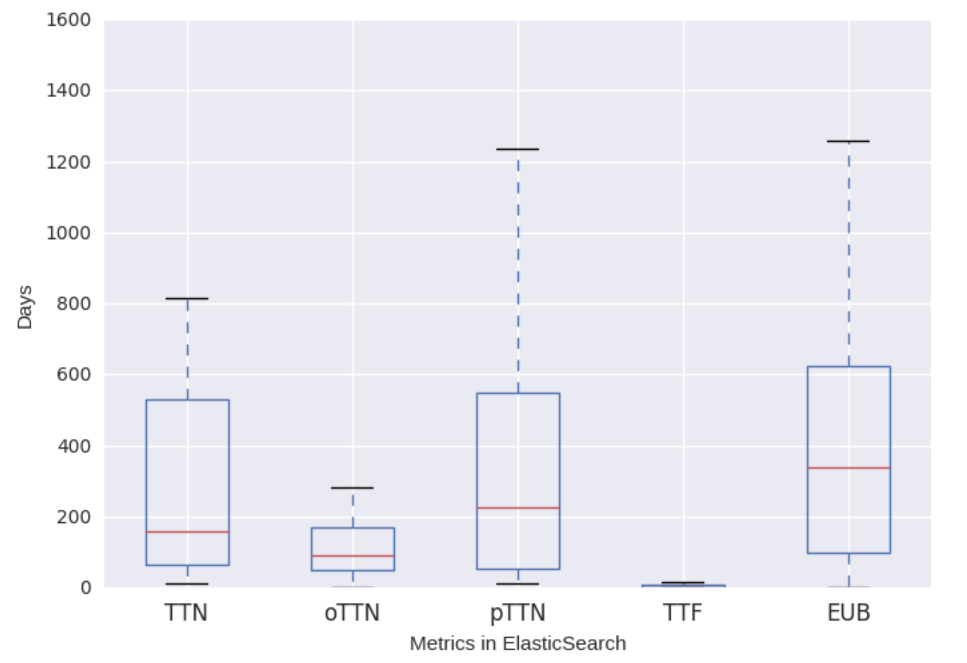
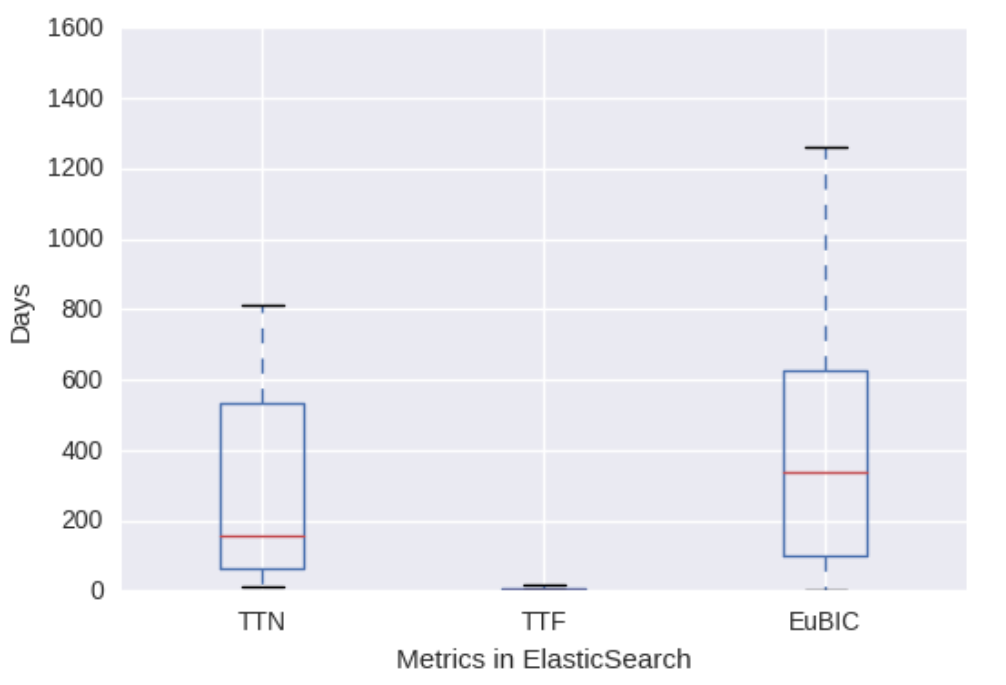
Re-writing the last sections according to the new proposal

diff --git a/bare_conf.tex b/bare_conf.tex
@@ -547,25 +547,6 @@ Figure~\ref{fig:metrics} provides a visual explanation of the various metrics pr
 \end{figure}
 
 Until now, all the values have been calculated using the exact location of the BIC, but the SZZ algorithm does not locate the precise commit in which the bug was introduced, and its outcome could be a a set of commits among which the \emph{real} BIC may or not be. To compare our results with the ones obtained after using the SZZ algorithm, we select the earliest commit which introduced the bug to the bug-fixing commit as in prior works~\cite{eyolfson2011time}. In addition, we must discard those fixing commits with only new lines since SZZ algorithm removes them from the analysis.
-%Besides these metrics, we calculate two more metrics related with TTN, which will be used to compare our results with the ones obtained after using the SZZ algorithm. Until now, all the values have been calculated using the exact location of the BIC, but the SZZ algorithm does not locate the precise commit in which the bug was introduced, and its outcome could be a a set of commits among which the \emph{real} BIC may or not be. 
-
-%To compare how the TTN obtained through SZZ algorithm differs with ours, we describe these two times:
-%\begin{itemize}
-%	\item \emph{Optimistic Time To Notify Optimistic} (oTTN): It assumes that the BIC is the closest commit in time to the bug report date, thus it measures the time since such commit until wrong behavior was reported.
-%	\item \emph{Pessimistic Time To Notify Pessimistic} (pTTN): It assumes that the BIC is furthest commit in time, thus it measures the worst time possible until the bug was notified.
-%\end{itemize}
-
-%\grex{oTTN and pTTN is still not clear... we would probably need an example like the one in Figure~\ref{fig:metrics}}
-%\gema{is it better now?}
-
-%The Figure~\ref{fig:SZZmetrics} shows how oTTN and pTTN are calculated, from the set of previous commits we build the \emph{Range of BIC} (RBIC) where the \emph{real} BIC may be. This range includes the time from the oldest to the newest merged commit in the master branch among the set of commits resulting from SZZ.
-  
-%\begin{figure}[ht]
-%\centering
-%\includegraphics[width=\columnwidth]{SZZmetrics.png}
-%\caption{ Span period of the metrics: Range of BIC (RBIC),  Pessimistic Time To Notify (pTTN), Optimistic Time To Notify (oTTN),Time To Fix (TTF) }
-%\label{fig:SZZmetrics}       % Give a unique label
-%\end{figure}
 
 \section{Evaluation}
 \label{sec:evaluation}
@@ -583,25 +564,44 @@ In this study we used a data set created in a prior research work where we analy
 \section{Results}
 \label{sec:results}
 
-We have analyzed exactly the values of the TTN, the EuBIC, and the TTF in the 76 bug fixing commits, 39 belong to Nova and 37 belong to ElasticSearch. In addition, we compare the real TTN value with the optimistic (oTTN) and pessimistic (pTTN) values resulting of SZZ.
+We have analyzed exactly the values of the TTN, the EuBIC, and the TTF in the 76 bug fixing commits, 39 belong to Nova and 37 belong to ElasticSearch. In addition, we compare these values with the values resulting of SZZ.
 
-Table~\ref{table} \gema{all the references to tables say Table V instead of their correct number, I don't know what is wrong} shows the mean of the Time To Fix (TTF) and the Time To Notify (TTN) variables computed in each project using the exactly BIC. The table also shows, the value of the TTN calculated through the use of SZZ using the nearest (oTTN) and furthest (pTTN) suspicious commit to insert the bug.  
+Table~\ref{tableNova} and Table~\ref{tableES} \gema{all the references to tables say Table V instead of their correct number, I don't know what is wrong} show the mean of the Time To Notify (TTN), the Time To Fix (TTF) and the Bug Fixing Time (BFT) variables computed in Nova and ElasticSearch project, respectively,  using our methodology \emph{Manually} and the SZZ algorithm. 
 
 \begin{table}[!t]
 % increase table row spacing, adjust to taste
 \renewcommand{\arraystretch}{1.3}
-\label{table}
+\label{tableNova}
 \centering
-\caption{Mean in days of the TTN, oTTN, pTTN and TTF in each project}
+\caption{Mean in days of the TTN, TTF, BFT in Nova project}
 % Some packages, such as MDW tools, offer better commands for making tables
 %% than the plain LaTeX2e tabular which is used here.
-\begin{tabular}{|c||c||c||c||c| }
+\begin{tabular}{|c||c||c||c| }
 \hline
-  & TTN & oTTN & pTTN & TTF \\
+  & TTN & TTF & BFT \\
 \hline
-Nova & 431 & 257 & 410 & 64 \\
+Manually & 432 & 65 & 497 \\
 \hline
-ElasticSearch & 312 & 171 & 375 & 14\\
+SZZ & 260 & 52 & 312\\
+\hline
+\end{tabular}
+\end{table}
+
+\begin{table}[!t]
+% increase table row spacing, adjust to taste
+\renewcommand{\arraystretch}{1.3}
+\label{tableES}
+\centering
+\caption{Mean in days of the TTN, TTF, BFT in ElasticSearch project}
+% Some packages, such as MDW tools, offer better commands for making tables
+%% than the plain LaTeX2e tabular which is used here.
+\begin{tabular}{|c||c||c||c| }
+\hline
+  & TTN & TTF & BFT \\
+\hline
+Manually & 312 & 14 & 326 \\
+\hline
+SZZ & 135 & 16 & 151\\
 \hline
 \end{tabular}
 \end{table}
@@ -626,7 +626,7 @@ Figure~\ref{fig:meansOfNova} and Figure~\ref{fig:meansOfES} shows the TTN as wel
 %\label{fig:graph5}       % Give a unique label
 \end{figure}
 
-The Figure~\ref{fig:correlation} shows the correlation between the metrics under analysis in Nova project. It shows a strong positive correlation between the TTN, oTTN and pTTN, also it shows a weak negative correlation between the experience of the author introducing the bug and the time to notify. The ElasticSearch project only showed the strong positive correlation between the TTN variables, and we decided not display the graph.
+The Figure~\ref{fig:correlation} shows the correlation between the metrics under analysis in Nova project. It shows a moderate negative correlation, $-0.56$, between the experience of the author introducing the bug and the Time To Notify. The value of this correlation in ElasticSearch project is $-0.383$, that means a weaker correlation than the one shows in Nova project and we decided not display the graph.
 
 \begin{figure}[ht]
 \centering
@@ -635,7 +635,7 @@ The Figure~\ref{fig:correlation} shows the correlation between the metrics under
 \label{fig:correlation}       % Give a unique label
 \end{figure}
 
-The Figure~\ref{fig:graph} shows the correlation distribution that each variable has with the others in Nova project. While we can suspect a weak negative inclination in the relationship between TTN and EUB which indicate how closely this two variables are related, the plot for TTN or EuBIC against TTF does not indicate such small tendency.
+The Figure~\ref{fig:graph} shows the correlation distribution that each variable has with the others in Nova project. While we can suspect a negative inclination in the relationship between TTN and EuBIC which indicates how closely this two variables are related, the plot for TTN or EuBIC against TTF does not indicate such tendency.
 
 \begin{figure}[ht]
 \centering
@@ -645,7 +645,7 @@ The Figure~\ref{fig:graph} shows the correlation distribution that each variable
 \label{fig:graph}       % Give a unique label
 \end{figure}
 
-On the other hand, the Figure~\ref{fig:graph1} also shows how the variables are related each others in the ElasticSearch project. In this project, it is more difficult to notice the negative inclination in the graph comparing TTN and EuBIC but, although the matrix correlations showed a very weak value for this comparison in this project, we may see the small tendency in the graph. On the contrary, the plot for TTN or EuBIC against TTF does not indicate such small tendency as in Nova.
+On the other hand, the Figure~\ref{fig:graph1} also shows how the variables are related each others in the ElasticSearch project. In this project, it is more difficult to notice the negative inclination in the graph comparing TTN and EuBIC but, although the matrix correlations showed a very weak value for this comparison in this project, we may see the small tendency in the graph. On the contrary, the plot for TTN or EuBIC against TTF does not indicate such tendency.
 \begin{figure}[ht]
 \centering
 \includegraphics[width=\columnwidth]{DistributionES_b.png}
@@ -695,21 +695,22 @@ No & 9 (23\%) & 34 (87\%) & 34 (87\%) & 32 (82\%) \\
 \section{Discussion}
 \label{sec:discussion}
 
-After analyzing several fixing commit in this study, we have realized that the real time to notify a bug differs to the one computed using algorithm such as SZZ, in both cases the TTN is nearest to the pTTN, but around a 82\% of the \emph{pessimistic/optimistic} commits resulting from SZZ coincided with the BIC. Furthermore, many variables could have some impact determining the time to notify which we does not have into account.
+After analyzing several fixing commit in this study, we have realized that the \emph{real} Time To Notify a bug differs to the one computed using an algorithm such as SZZ, the percentage of times that this metric concurs is 36\% in Nova and 24\% in ElasticSearch. The TTN computed using SZZ is almost the half that the one calculated using our methodology. The principal reasons of this results are (1) The bug fixing commit with only new lines are discarded by SZZ and, (2) The assumption done by SZZ where the earliest commit to the bug fixing commit is suspicious to be the BIC.
 
-The median time to notify a bug is almost 200 days in ElasticSearch and about 350 days in Nova. To calculate the median time of bug fixing in each project we add to the TTN values the median time to fix a bug per project, it arise that bug fixing time in ElasticSearch does not have any variation whereas it is increased in Nova reaching to almost 400 days. In addition, using the range of BTF which varies from 100 to 200 calculated by Kim and Whitehead in ~\cite{kim2006long}, we notice that the our BFT in ElasticSearch is on the range but not the Nova. 
+
+The median time to notify a bug is almost 200 days in ElasticSearch and about 350 days in Nova. To calculate the median time of bug fixing in each project we add to the TTN values the median time to fix a bug per project, it arise that bug fixing time in ElasticSearch does not have any variation whereas it is increased in Nova reaching to almost 400 days. In addition, using the range of BFT which varies from 100 to 200 calculated by Kim and Whitehead in ~\cite{kim2006long}, we notice that none of the projects are on the range. The explanation of that is because to calculate the bug fixing time they use SZZ to locate the suspicious commit to be the BIC.
 
 \vspace{0.2cm}
 \fbox{\begin{minipage}{24em}
-\textbf{$H_0$: The real values of the Time to Notify (TTN) a bug in both projects differ from the values calculated with SZZ } 
+\textbf{$H_0$: The real value of the Time to Notify (TTN) a bug in both projects differs from the value calculated using SZZ } 
 \end{minipage}}
 \vspace{0.1cm}
 
-One of our findings is the negative correlation that Nova presents between two of the variables compared. This correlations implies that the TTN increases when the EuBIC is lower, meaning that one of the reasons why the TTN is high some times could be that the author who injected the bug in the code had few experience in the project.
+One of our findings is the negative correlation that Nova presents between two of the variables compared. This correlations implies that the TTN increases when the EuBIC is lower, meaning that one of the reasons why the TTN is high some times could be that the author who injected the bug in the code had few experience in the project at this moment.
 
 \vspace{0.2cm}
 \fbox{\begin{minipage}{24em}
-\textbf{ $H_2$: The experience of the author who inserted the bug in the source code and the Time To Notify such bug have a correlation in Nova project} 
+\textbf{ $H_2$: The experience of the author who inserted the bug in the source code and the Time To Notify it are correlated} 
 \end{minipage}}
 \vspace{0.1cm}
 
@@ -721,13 +722,10 @@ On the contrary, the results denote that the hypothesis $H_1$ and $H_3$ are posi
 \end{minipage}}
 \vspace{0.1cm}
 
-
 A interesting question to answer was \emph{Do the authors of the BIC fix/notify theirs bugs?}. In ElasticSearch a 43\% of the developers
- that opened a bug report notifying the wrong behavior of the system, then fixed the bug. In addition, the author of the BIC was the person who afterwards fixed it in a 43\%. Whereas in Nova, the percentage of developers reporting and fixing the bug is higher, a 77\%. But, it was not common that the authors of the BIC fixed their own bugs, only 18\% of the developer did it. 
- 
-One possible reason to explain the lower percentage of authors who fixed the bug may be because they were no longer in the project after the bug was reported. But in fact, the number of authors who abandoned the project before the bug was reported were only one in ElasticSearch and two in Nova, so in the data analyzed there are other reasons more important that proprietary of the code to fix a bug. On the contrary, the high percentage of developer notifying and fixing the bugs may be due to when they are reporting the bug, they already know how to fix it, and this might have and impact reducing the time to fix a bug. 
- 
-\gema{ Have the TTN some relation with the fact that the authors fixed/notified their own bugs?)} 
+ that opened a bug report notifying the wrong behavior of the system, then fixed the bug. In addition, the author of the BIC was the person who afterwards fixed it in a 43\%. Whereas in Nova, the percentage of developers reporting and fixing the bug is higher, a 77\%. But, it was not common that the authors of the BIC fixed their own bugs, only 18\% of the developer did it. One possible reason to explain the lower percentage of authors who fixed their bugs may be because they were no longer in the project after the bug was reported. But in fact, the number of authors who abandoned the project before the bug was reported were only one in ElasticSearch and two in Nova, so in the data analyzed there must be other reasons more important that proprietary of the code to fix a bug. On the contrary, the higher percentage of developers notifying and fixing the bugs may be due to when they are reporting the bug, they already know how to fix it, and this might have and impact reducing the time to fix a bug. 
+
+Finally, the analysis of the Time To Notify a bug has demonstrated that is a valuable metric which has a correlation with the experience of the author who inserted the BIC in the source code and which is not being measured correctly. As solution, the bug tracking system has to evolve providing a field to write which is the bug introduction commit according to the developer who fixed the bug. There is no one more qualified at this moment that knows where and when the bug was caused, that way the researchers might trust in that commit and build a better models that measure the effort of a software.  
 
 \section{Threats to validity}
 \label{sec:threats}
@@ -751,9 +749,9 @@ The most important external threats, most of them related to peculiarities of th
 \section{Conclusion and further research}
 \label{sec:conclusions}
 
-The studied we have performed in Nova and ElasticSearch has shown that the mean time to notify a bug in the system is higher than 10 months when the location of the bug introducing change is known. Whereas using SZZ to calculate this metric, the optimistic value is more than 5 months and the pessimistic value is more than 12 months. 
+The studied we have performed in Nova and ElasticSearch has shown that the mean time to notify a bug in the system is higher than ten months when the location of the bug introducing change is known. Whereas using SZZ to calculate this metric this value is higher than five months.
 
-Our study also shows a weak negative correlation between the TTN and the EuBIC in Nova, which may indicates that a higher time to notify a fewer experience of the author. 
+Our study also shows a negative correlation between the TTN and the EuBIC, which may indicates that a higher time to notify a fewer experience of the author who created the bug. 
 
 Once we have found this, it makes sense to explore, as future work, to which extent this happens in other projects with probably higher number of tickets and with a higher number metrics.
 
